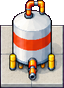
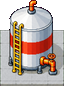
Product tank art for levels 1-5 (v4.1.5)
Claude-Session: https://claude.ai/code/session_01JqJ9XgrDhfxyaMeR1n3pbV

diff --git a/src/v4/render/tdBuildings.ts b/src/v4/render/tdBuildings.ts
@@ -100,9 +100,45 @@ export const tdBuildings: Record<string, Partial<Record<1 | 2 | 3 | 4 | 5, Sprit
     1: {
       src: require('../../../assets/v4/td/tank_L1.png'),
       w: 64,
-      h: 88,
+      h: 86,
       ax: 32.0,
-      ay: 88,
+      ay: 86,
+      scale: 1,
+      smooth: true,
+    },
+    2: {
+      src: require('../../../assets/v4/td/tank_L2.png'),
+      w: 64,
+      h: 89,
+      ax: 32.0,
+      ay: 89,
+      scale: 1,
+      smooth: true,
+    },
+    3: {
+      src: require('../../../assets/v4/td/tank_L3.png'),
+      w: 64,
+      h: 89,
+      ax: 32.0,
+      ay: 89,
+      scale: 1,
+      smooth: true,
+    },
+    4: {
+      src: require('../../../assets/v4/td/tank_L4.png'),
+      w: 64,
+      h: 93,
+      ax: 32.0,
+      ay: 93,
+      scale: 1,
+      smooth: true,
+    },
+    5: {
+      src: require('../../../assets/v4/td/tank_L5.png'),
+      w: 64,
+      h: 95,
+      ax: 32.0,
+      ay: 95,
       scale: 1,
       smooth: true,
     },
